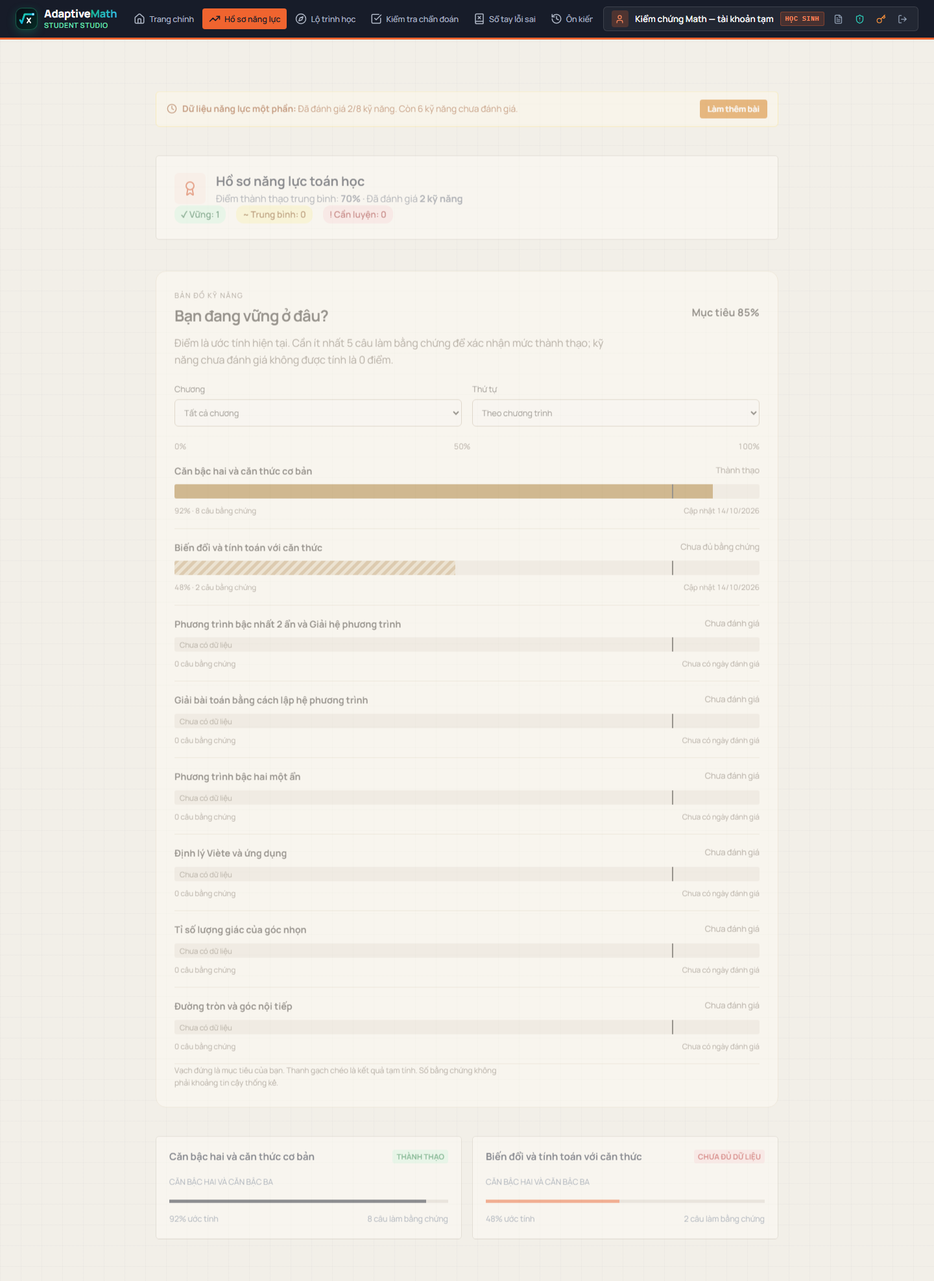
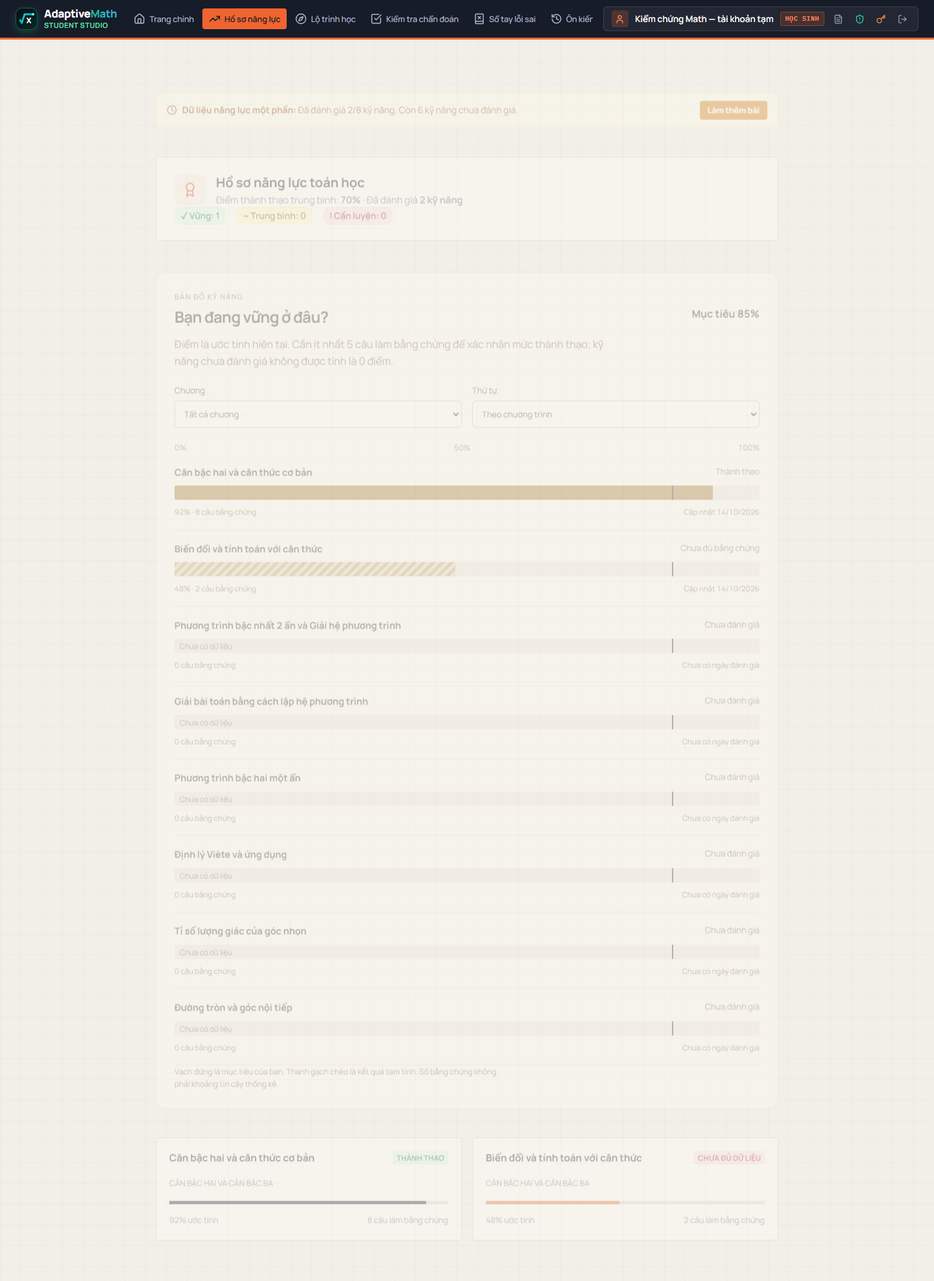
docs(math): complete competency and MWAPI production acceptance audit

diff --git a/docs/COMPETENCY-AND-CHATBOT-TASKS.md b/docs/COMPETENCY-AND-CHATBOT-TASKS.md
@@ -1,5 +1,7 @@
 # Task biểu đồ năng lực, chatbot và dịch vụ đã nhắc
 
+> Trạng thái cuối 14/10/2026: đã hoàn thành các task tính năng biểu đồ, chatbot hỏi tiếp bài ôn và đối chiếu hạ tầng riêng của Math; đã kiểm chứng MWAPI thật. Mục 1–7 giữ lịch sử rà soát/triển khai; kết luận và giới hạn hiện hành ở mục 8. Không tuyên bố đã hoàn thành ngân hàng học liệu hoặc tích hợp gửi email Resend.
+
 Ngày rà soát: 14/10/2026. Nguồn: mã nguồn và tài liệu tại workspace hiện tại, gồm cả thay đổi chưa commit. Đây là kết quả rà soát local; chưa kiểm chứng môi trường production, tài khoản dịch vụ hoặc database đích. Không deploy, gửi email hoặc thay đổi database trong lần rà soát này.
 
 > Cập nhật: người dùng đã yêu cầu tự triển khai các task. Biểu đồ và chatbot đã được triển khai và kiểm chứng local; xem mục 5. Các bảng bên dưới mô tả trạng thái trước triển khai.
@@ -17,35 +19,35 @@ Ngày rà soát: 14/10/2026. Nguồn: mã nguồn và tài liệu tại workspac
 
 ## 2. Backlog và tiêu chí hoàn thành
 
-Các mục dưới đây là task ghi nhận sau rà soát, chưa phải tính năng đã nghiệm thu. Không mặc định người dùng đã chọn radar, một nhà cung cấp AI mới, hoặc loại email cụ thể.
+Các mục dưới đây đã được đối chiếu triển khai và bằng chứng local/production ở mục 7–8. Nhánh điều kiện tổng hợp theo chương không áp dụng vì đã chọn thanh theo kỹ năng. Resend được đối chiếu trạng thái, không coi là đã tích hợp gửi thư.
 
 ### NL-01 — Chốt cách thể hiện biểu đồ năng lực (ưu tiên 1)
 
-- [ ] Chọn biểu đồ theo kỹ năng hoặc tổng hợp theo chương dựa trên câu hỏi cần trả lời: học sinh đang mạnh/yếu ở đâu và nên luyện gì tiếp.
-- [ ] Nếu tổng hợp theo chương, ghi rõ công thức, trọng số và cách xử lý kỹ năng chưa đánh giá; không lấy thiếu dữ liệu thành điểm 0.
-- [ ] Ghi quyết định về dạng biểu đồ trong decision log, kèm tiêu chí đọc được trên điện thoại và khi có nhiều kỹ năng. Radar là lựa chọn cần đánh giá, chưa phải yêu cầu cũ được xác nhận.
+- [x] Chọn biểu đồ theo kỹ năng hoặc tổng hợp theo chương dựa trên câu hỏi cần trả lời: học sinh đang mạnh/yếu ở đâu và nên luyện gì tiếp.
+- [x] Nếu tổng hợp theo chương, ghi rõ công thức, trọng số và cách xử lý kỹ năng chưa đánh giá; không lấy thiếu dữ liệu thành điểm 0.
+- [x] Ghi quyết định về dạng biểu đồ trong decision log, kèm tiêu chí đọc được trên điện thoại và khi có nhiều kỹ năng. Radar là lựa chọn cần đánh giá, chưa phải yêu cầu cũ được xác nhận.
 
 ### NL-02 — Hoàn thiện dữ liệu và giao diện năng lực (ưu tiên 2; sau NL-01)
 
-- [ ] Dùng dữ liệu mastery thật, lọc đúng khối lớp và học sinh; phân biệt chưa đánh giá, thiếu bằng chứng, đang củng cố, cần luyện và thành thạo.
-- [ ] Hiển thị ngày cập nhật, số bằng chứng, ngưỡng theo mục tiêu và giải thích điểm là ước tính. Chỉ trình bày sai số/khoảng tin cậy khi backend cung cấp và có định nghĩa được kiểm chứng.
-- [ ] Có bảng hoặc nhãn chữ tương đương biểu đồ; không chỉ dựa vào màu. Kiểm tra trạng thái tải, lỗi, trống, dữ liệu một phần và màn hình nhỏ.
-- [ ] Nghiệm thu bằng dữ liệu có kỹ năng chưa đánh giá/thiếu bằng chứng và bằng tài khoản khác nhau; điểm hiển thị khớp API. Ghi bằng chứng kiểm tra vào tài liệu nghiệm thu trước khi đánh dấu hoàn thành.
+- [x] Dùng dữ liệu mastery thật, lọc đúng khối lớp và học sinh; phân biệt chưa đánh giá, thiếu bằng chứng, đang củng cố, cần luyện và thành thạo.
+- [x] Hiển thị ngày cập nhật, số bằng chứng, ngưỡng theo mục tiêu và giải thích điểm là ước tính. Chỉ trình bày sai số/khoảng tin cậy khi backend cung cấp và có định nghĩa được kiểm chứng.
+- [x] Có bảng hoặc nhãn chữ tương đương biểu đồ; không chỉ dựa vào màu. Kiểm tra trạng thái tải, lỗi, trống, dữ liệu một phần và màn hình nhỏ.
+- [x] Nghiệm thu bằng dữ liệu có kỹ năng chưa đánh giá/thiếu bằng chứng và bằng tài khoản khác nhau; điểm hiển thị khớp API. Ghi bằng chứng kiểm tra vào tài liệu nghiệm thu trước khi đánh dấu hoàn thành.
 
 ### AI-01 — Kiểm chứng luồng AI góp ý đang có (ưu tiên 1)
 
-- [ ] Kiểm tra schema/migration, cấu hình provider và ngân sách của môi trường đích trước khi bật AI; khóa chỉ nằm ở backend.
-- [ ] Nghiệm thu luồng mở đáp án → nhập cách nghĩ → nhận góp ý có công thức toán; xác nhận lời giải/lịch ôn vẫn dùng được khi AI tắt hoặc lỗi.
-- [ ] Kiểm tra từ chối truy cập lượt ôn của người khác, chặn khi đang diagnostic, giới hạn yêu cầu/ngân sách và hành vi khi provider lỗi/hết thời gian.
-- [ ] Ghi rõ môi trường và kết quả thực chạy. Sự tồn tại của code/test không được coi là bằng chứng đã chạy production.
+- [x] Kiểm tra schema/migration, cấu hình provider và ngân sách của môi trường đích trước khi bật AI; khóa chỉ nằm ở backend.
+- [x] Nghiệm thu luồng mở đáp án → nhập cách nghĩ → nhận góp ý có công thức toán; xác nhận lời giải/lịch ôn vẫn dùng được khi AI tắt hoặc lỗi.
+- [x] Kiểm tra từ chối truy cập lượt ôn của người khác, chặn khi đang diagnostic, giới hạn yêu cầu/ngân sách và hành vi khi provider lỗi/hết thời gian.
+- [x] Ghi rõ môi trường và kết quả thực chạy. Sự tồn tại của code/test không được coi là bằng chứng đã chạy production.
 
 ### AI-02 — Xác định và triển khai chatbot nhiều lượt (ưu tiên 2; sau khi chốt phạm vi)
 
-- [ ] Chốt chatbot dùng để hỏi tiếp bài ôn, giải thích kiến thức hay hỗ trợ sử dụng web; quy định dữ liệu nào được đưa vào ngữ cảnh.
-- [ ] Đặc tả màn hình hội thoại, phiên chat, lịch sử, thời hạn lưu/xóa, quyền sở hữu và hợp đồng API; xác định có tái sử dụng module AI hiện tại hay không.
-- [ ] Thực hiện hội thoại nhiều lượt có ngữ cảnh đúng bài/học sinh, nút gửi, trạng thái chờ, lỗi và thử lại không tạo yêu cầu trùng.
-- [ ] Áp dụng giới hạn chi phí, bảo vệ khóa, phân quyền dữ liệu và quy tắc hỗ trợ khi có bài kiểm tra đang diễn ra. Ghi rõ giới hạn hiện tại: cơ chế chặn diagnostic chưa chứng minh chặn được mọi phiên bài lớp.
-- [ ] Nghiệm thu ít nhất hai lượt hỏi tiếp, hai học sinh không đọc được lịch sử của nhau, lỗi provider, AI tắt và vượt hạn mức. Lưu bằng chứng trước khi đánh dấu hoàn thành.
+- [x] Chốt chatbot dùng để hỏi tiếp bài ôn, giải thích kiến thức hay hỗ trợ sử dụng web; quy định dữ liệu nào được đưa vào ngữ cảnh.
+- [x] Đặc tả màn hình hội thoại, phiên chat, lịch sử, thời hạn lưu/xóa, quyền sở hữu và hợp đồng API; xác định có tái sử dụng module AI hiện tại hay không.
+- [x] Thực hiện hội thoại nhiều lượt có ngữ cảnh đúng bài/học sinh, nút gửi, trạng thái chờ, lỗi và thử lại không tạo yêu cầu trùng.
+- [x] Áp dụng giới hạn chi phí, bảo vệ khóa, phân quyền dữ liệu và quy tắc hỗ trợ khi có bài kiểm tra đang diễn ra. Ghi rõ giới hạn hiện tại: cơ chế chặn diagnostic chưa chứng minh chặn được mọi phiên bài lớp.
+- [x] Nghiệm thu ít nhất hai lượt hỏi tiếp, hai học sinh không đọc được lịch sử của nhau, lỗi provider, AI tắt và vượt hạn mức. Lưu bằng chứng trước khi đánh dấu hoàn thành.
 
 ## 3. Vercel, Supabase và Resend
 
@@ -59,9 +61,9 @@ Người dùng xác nhận đã nhắc cả ba dịch vụ trong quá trình là
 
 ### INF-01 — Đối chiếu môi trường đã kết nối (ưu tiên 1, trước triển khai)
 
-- [ ] Xác định project Vercel, backend Render, project/database Supabase và tài khoản/domain Resend từ bằng chứng cấu hình hoặc tài khoản được kết nối.
-- [ ] Lưu tên môi trường và tham chiếu bằng chứng đã che bí mật; phân biệt chưa cấu hình, đã cấu hình và đã kiểm chứng chạy thật cho từng dịch vụ.
-- [ ] Ghi kết quả đối chiếu vào tài liệu triển khai; mọi thay đổi production/database và gửi email nằm ngoài phạm vi lần rà soát này.
+- [x] Xác định project Vercel, backend Render, project/database Supabase và tài khoản/domain Resend từ bằng chứng cấu hình hoặc tài khoản được kết nối.
+- [x] Lưu tên môi trường và tham chiếu bằng chứng đã che bí mật; phân biệt chưa cấu hình, đã cấu hình và đã kiểm chứng chạy thật cho từng dịch vụ.
+- [x] Ghi kết quả đối chiếu vào tài liệu triển khai; mọi thay đổi production/database và gửi email nằm ngoài phạm vi lần rà soát này.
 
 Vercel CLI chưa được cài theo thông tin phiên làm việc. Khuyến nghị cài `npm i -g vercel` khi bắt đầu công việc triển khai để dùng các chức năng quản lý môi trường, deploy và xem log; không cần cài để hoàn thành tài liệu rà soát này.
 
@@ -146,8 +148,39 @@ Thực hiện NL-01, AI-01 và INF-01 trước; sau đó NL-02 và AI-02 theo qu
 
 ### Phần còn lại trước khi nghiệm thu đầy đủ chatbot
 
-- AI production đang tắt vì chưa có khóa provider riêng. Đã hỏi người dùng chọn Anthropic hoặc MWAPI và nhập khóa trực tiếp ở Environment của service Math mới; không yêu cầu gửi khóa vào chat. MWAPI cần đơn giá hiệu dụng input/output để ledger tính phí.
+- Người dùng đã chọn MWAPI. Backend Math đã cấu hình `AI_PROVIDER=mwapi`, `AI_MODEL=claude-haiku-4-5-20251001`; AI production vẫn tắt. Sau lần kiểm duyệt tự động yêu cầu xác nhận đích nhận token, người dùng đã cho phép nhập token. Đã lưu `ANTHROPIC_AUTH_TOKEN` vào biến môi trường service Math riêng trên Render, không chạy installer và không lưu token trong tài liệu/Git. Đang chờ đơn giá hiệu dụng input/output của MWAPI để ledger tính phí; chưa gọi provider hoặc bật AI.
 - Database mới hiện có 0 câu hỏi PUBLISHED. Luồng chatbot theo bài ôn cần câu hỏi đã duyệt và lượt ôn đã mở đáp án. Không sao chép ngân hàng hoặc dữ liệu học sinh từ English; không tự xuất bản seed để tạo bằng chứng nghiệm thu.
 - Cần kiểm chứng hai lượt hội thoại bằng provider thật trên bài ôn đã duyệt và kiểm tra ledger chi phí, rồi mới đánh dấu hoàn thành AI production.
 - Resend vẫn chưa có domain trên tài khoản đã kết nối; chưa gửi email hoặc tự thêm luồng email không được xác định. Việc ghi nhận Resend trong stack đã hoàn thành, không coi là đã tích hợp gửi thư.
 - Goal vẫn active; việc phát hành site/database/backend riêng đã xong, phần AI thật và nội dung phục vụ luồng ôn còn chưa đạt.
+
+### Bảng giá MWAPI công khai đã đối chiếu
+
+- Đã đọc trang https://api.mwapi.dev/model-plaza bằng trình duyệt ngày 14/10/2026. Nhóm công khai `Claude Uptime 99%`, rate `5x`, model `claude-haiku-4-5-20251001` hiển thị giá 5 USD input / 25 USD output cho một triệu token. Cột giá official là 1 / 5, không phải giá MWAPI của nhóm này.
+- Trang ghi đăng nhập để xem exclusive groups/personal rates. Chưa xác nhận token người dùng thuộc nhóm công khai này hoặc có hệ số riêng; không suy diễn bảng giá official Anthropic thành đơn giá MWAPI của tài khoản.
+- Chưa thay đơn giá production hoặc bật AI dựa trên giá công khai. Cần xác nhận nhóm/giá của token trước khi nghiệm thu chi phí thực.
+
+## 8. Nghiệm thu MWAPI thật và phạm vi hoàn thành
+
+- Sau khi được thông báo giá công khai, người dùng đồng ý dùng mức 5 USD input / 25 USD output mỗi triệu token và cho phép tiếp tục. Backend Math được bật `AI_ENABLED=true` với hai đơn giá này; token chỉ nằm trong biến môi trường Render riêng.
+- Kiểm thử hai lượt qua trình duyệt production, Vercel proxy, backend Render và MWAPI thật đạt; ledger có hai bản ghi COMPLETED, số token dương, `reservedUsd=0` và chi phí khớp công thức đơn giá đã chọn. Lần kiểm chứng đầu ghi 0,060815 USD.
+- Câu hỏi kiểm chứng là fixture toán kiểm tra được bằng phép thế, thuộc khối QA 99 ngoài chương trình học sinh thật 6–9. Fixture/câu ôn/nội dung chat được xóa, tài khoản QA bị khóa, session bị thu hồi; accounting được giữ lại. Không dùng fixture để tuyên bố ngân hàng học liệu production đã sẵn sàng.
+- Phản hồi đầu có xu hướng suy diễn lỗ hổng từ câu hỏi “vì sao”; đã sửa chỉ dẫn để trả lời câu hỏi và chỉ xác định lỗi khi có bằng chứng từ đáp án/bước giải. Build API và 13 test chatbot đạt, bao gồm bài thi bắt đầu giữa lúc gọi AI và lỗi xác thực provider.
+- Biểu đồ production được kiểm chứng thêm trạng thái trống/tải/lỗi/thử lại. Lỗi tải chỉ được mô phỏng trong trình duyệt QA, không thay cấu hình hoặc gây lỗi backend thật. Dữ liệu tạm đã được dọn.
+- Các task NL-01, NL-02, AI-01, AI-02 và INF-01 được triển khai/đối chiếu theo bằng chứng ở `docs/evidence/math-tutor/`, `docs/evidence/math-tutor/live/`, test API và cấu hình dịch vụ riêng. Không triển khai gửi thư Resend vì chưa có domain hoặc mục đích email trong yêu cầu.
+- Giới hạn sản phẩm còn công khai: database Math mới chưa có câu hỏi chính thức PUBLISHED; chatbot này hỏi tiếp sau bài ôn, không phải chatbot tự do toàn website. Đưa ngân hàng học liệu qua quy trình duyệt là công việc nội dung riêng. Không thay đổi database hoặc backend Adaptive English.
+
+### Audit hoàn thành các task đã ghi nhận
+
+| Task | Bằng chứng quyết định/triển khai | Bằng chứng kiểm chứng |
+| --- | --- | --- |
+| NL-01 | Thanh theo từng kỹ năng; quyết định D-MATH-20261014; không tổng hợp chương nên điều kiện trọng số không áp dụng | Biểu đồ desktop/390px và bộ lọc/sắp xếp trong QA |
+| NL-02 | Catalog đúng lớp, null chưa đánh giá, nhãn trạng thái, bằng chứng và ngày cập nhật | Báo cáo production VERIFICATION.md: đăng nhập thật, giá trị/API, trống/tải/lỗi/thử lại và không tràn ngang |
+| AI-01 | Migration/schema riêng, giá MWAPI đã được người dùng chấp thuận, token chỉ ở backend, ledger ngân sách | Test lỗi/tắt/ngân sách/chủ sở hữu/diagnostic; MWAPI thật trả lời qua route bài ôn và ledger khớp token |
+| AI-02 | Hội thoại/lịch sử 6 lượt ngữ cảnh, tối đa 20 lượt, hiển thị 30 ngày, dọn khi đọc, xóa nội dung giữ accounting | Hai lượt liên tiếp thật sau bản sửa chỉ dẫn; QA khác học sinh 404, thi đang làm 403; test thi bắt đầu giữa request giữ accounting và chặn phản hồi |
+| INF-01 | Vercel Math, Render service mới, Supabase tài khoản/project/schema riêng; Resend đối chiếu không có domain | Health qua domain Vercel `ok/connected`, runtime math_app đúng schema, RLS/quyền, dữ liệu English không bị sửa |
+
+- Bản sửa gia sư `bf41a1c6cbabbf8e87cf1982244e2f8329083459` đã live trên Render trước vòng kiểm chứng cuối; phản hồi mới giải thích trực tiếp câu hỏi và không gán lỗi tiềm ẩn khi thiếu bằng chứng.
+- Vòng MWAPI cuối ghi 0,058265 USD. Cộng vòng đầu, ledger giữ tổng 0,119080 USD cho 4 request COMPLETED; `reservedUsd=0`.
+- `FINAL-AUDIT.json` xác nhận site khỏe, không còn tài khoản QA ACTIVE, không còn kỹ năng QA khối 99, giữ 8 kỹ năng tham chiếu và 0 câu hỏi chính thức PUBLISHED. Frontend production có cùng mã ứng dụng với nhánh phát hành hiện tại; thay đổi sau commit frontend chỉ ở API, tài liệu và script kiểm chứng.
+- Goal tính năng đủ bằng chứng để hoàn tất. Phần nội dung chính thức và email chỉ được ghi rõ trạng thái, không bị giả định là đã triển khai.

diff --git a/docs/product/DECISION-LOG.md b/docs/product/DECISION-LOG.md
@@ -2,12 +2,12 @@
 
 ### Quyết định triển khai D-MATH-20261014: biểu đồ và hội thoại gia sư
 
-- Trạng thái: IMPLEMENTED LOCALLY; chưa nghiệm thu production hoặc thay thế các sign-off phát hành hiện hữu.
+- Trạng thái: IMPLEMENTED AND TECHNICALLY VERIFIED ON MATH PRODUCTION; không thay thế sign-off nội dung hoặc phát hành pilot toàn sản phẩm.
 - Cơ sở: người dùng yêu cầu tự thực hiện các task biểu đồ năng lực và chatbot ngày 14/10/2026. Lựa chọn cụ thể dưới đây là quyết định triển khai của agent trong phạm vi đó, không giả định có người phê duyệt khác.
 - Biểu đồ: thanh ngang từng kỹ năng, lọc chương và sắp xếp điểm thấp trước; dùng catalog đúng lớp, giữ null cho kỹ năng chưa đánh giá. Không tổng hợp chương hoặc dựng khoảng tin cậy từ số câu bằng chứng.
 - Chatbot: hỏi tiếp theo bài ôn đã mở đáp án, ngữ cảnh server, 6 lượt gần nhất, 20 lượt/hội thoại. Hiển thị lịch sử 30 ngày; dọn nội dung quá hạn khi mở hội thoại. Xóa nội dung theo yêu cầu giữ nguyên sổ chi phí. Tái sử dụng ledger và provider hiện có; không tự đổi nhà cung cấp.
-- Kiểm chứng: build/typecheck, 69 test đạt và 1 bỏ qua trong QA Math, kiểm tra trình duyệt hai lượt/hồi phục lịch sử/phân quyền/gửi trùng/xóa nội dung trên desktop và 390px. Provider trình duyệt là bộ kiểm thử có kiểm soát, chưa phải AI production.
-- Tham chiếu: `docs/COMPETENCY-AND-CHATBOT-TASKS.md`, `docs/evidence/math-tutor/VERIFICATION.md`.
+- Kiểm chứng: build/typecheck, QA Math 70 test đạt và 1 bỏ qua, 13 test chatbot sau sửa chỉ dẫn; kiểm tra lịch sử/phân quyền/gửi trùng/xóa nội dung. Production kiểm chứng biểu đồ trên desktop/390px và trạng thái trống/tải/lỗi/thử lại; hai vòng, mỗi vòng hai lượt MWAPI thật. Bốn request COMPLETED, tổng chi phí ledger 0,119080 USD, không còn giữ chỗ hoặc dữ liệu QA hoạt động. Không nghiệm thu ngân hàng câu hỏi chính thức bằng fixture QA.
+- Tham chiếu: `docs/COMPETENCY-AND-CHATBOT-TASKS.md`, `docs/evidence/math-tutor/VERIFICATION.md`, `docs/evidence/math-tutor/live/MWAPI-VERIFICATION.md`, `docs/evidence/math-tutor/live/FINAL-AUDIT.json`.
 
 
 **Tài liệu:** Formal Product, Architecture & Governance Decision Log  

diff --git a/docs/evidence/math-tutor/live/MWAPI-VERIFICATION.md b/docs/evidence/math-tutor/live/MWAPI-VERIFICATION.md
@@ -1,0 +1,31 @@
+# MWAPI real provider verification
+
+Date: 2026-10-14T15:18:25.776Z
+
+- Two authenticated browser chat turns through Math Vercel → isolated Render → MWAPI. No provider mock used.
+- Model: claude-haiku-4-5-20251001. Pricing accepted by user: input $5 / output $25 per million tokens.
+- Both persisted requests COMPLETED; reservation released; token-based cost verified.
+- Total recorded cost: $0.058265.
+- Desktop + 390px mobile; no horizontal overflow.
+- Controlled QA question in grade 99, outside the real curriculum. Fixture and chat content removed after the test; usage accounting retained against a suspended test account.
+- Does not certify any real question bank as reviewed or published.
+
+First response:
+
+Vì khi bạn chia cả hai vế cho cùng một số (khác 0), phương trình vẫn giữ nguyên tính chất bằng nhau.
+
+Ở đây, từ $2x = 6$, nếu chỉ chia vế trái cho 2 mà không chia vế phải, bạn sẽ được $x = 6$, điều này sai. Chia cả hai vế đảm bảo dấu "=" vẫn đúng: $\frac{2x}{2} = \frac{6}{2}$, rút gọn thành $x = 3$.
+
+Đó là quy tắc cơ bản: **để giữ phương trình tương đương, các phép biến đổi phải tác động như nhau lên cả hai vế**.
+
+Follow-up response:
+
+Không, nếu chỉ chia vế trái thì phương trình không còn tương đương.
+
+Cụ thể: từ $2x = 6$, nếu chỉ chia vế trái cho 2, bạn được $x = 6$. Nhưng điều này sai vì:
+- Vế trái: $\frac{2x}{2} = x$
+- Vế phải: vẫn là $6$ (không chia)
+
+Khi đó $x = 6$ không phải nghiệm của phương trình gốc. Kiểm tra: $2 \times 6 = 12 \neq 6$.
+
+**Lý do**: phương trình biểu thị một cân bằng. Nếu bạn "làm gì" với một vế mà không làm với vế kia, cân bằng bị phá vỡ. Chỉ khi thực hiện **cùng một phép biến đổi** trên cả hai vế, phương trình mới giữ nguyên các nghiệm — tức là vẫn tương đương.

diff --git a/README.md b/README.md
@@ -1,5 +1,7 @@
 # AdaptiveMath — Nền Tảng Học Toán Thích Ứng THCS GDPT 2018
 
+> **Math riêng đã phát hành 14/10/2026:** [Mở site Math](https://adaptivemath-blush.vercel.app). Biểu đồ năng lực và gia sư hỏi tiếp bài ôn đã kiểm chứng production với MWAPI thật; backend/database tách khỏi Adaptive English. Database mới có 8 kỹ năng tham chiếu, chưa có ngân hàng câu hỏi chính thức đã xuất bản. Xem [bằng chứng kỹ thuật](docs/evidence/math-tutor/live/FINAL-AUDIT.json); không đồng nghĩa đã đạt các sign-off nội dung/pilot toàn sản phẩm.
+
 > **Rà soát task 14/10/2026:** Xem [biểu đồ năng lực, chatbot/AI và đối chiếu Vercel–Supabase–Resend](docs/COMPETENCY-AND-CHATBOT-TASKS.md) để phân biệt phần đã có, backlog và tiêu chí nghiệm thu.
 
 > **Cập nhật Math 09/10/2026:** Đã bổ sung chẩn đoán 3PL/MAP, vòng luyện theo chủ đề, BKT và lộ trình theo ngày. Tham số còn tạm, chưa triển khai database đích; xem [bản sửa và giới hạn](docs/MATH-ADAPTIVE-UPDATE.md). Adaptive English được giữ nguyên.

diff --git a/docs/evidence/math-tutor/live/VERIFICATION.md b/docs/evidence/math-tutor/live/VERIFICATION.md
@@ -1,6 +1,6 @@
 # Math production verification
 
-Date: 2026-10-14T13:58:21.788Z
+Date: 2026-10-14T15:15:52.515Z
 
 - Frontend: https://adaptivemath-blush.vercel.app
 - Backend: https://adaptivemath-api.onrender.com
@@ -9,4 +9,5 @@ Date: 2026-10-14T13:58:21.788Z
 - Grade-scoped competency API and rendered chart: sufficient, provisional and unassessed skills.
 - Desktop and 390px mobile, no horizontal overflow or unhandled JavaScript errors.
 - Uses one explicitly temporary QA learner and synthetic mastery values; cleanup runs in finally.
-- Real AI provider and published question inventory are not verified; AI is currently disabled.
+- Empty, loading, failed request and retry states verified; errors injected only in the QA browser, not the live service.
+- AI provider verification is recorded separately in MWAPI-VERIFICATION.md; this chart test does not certify published question inventory.
